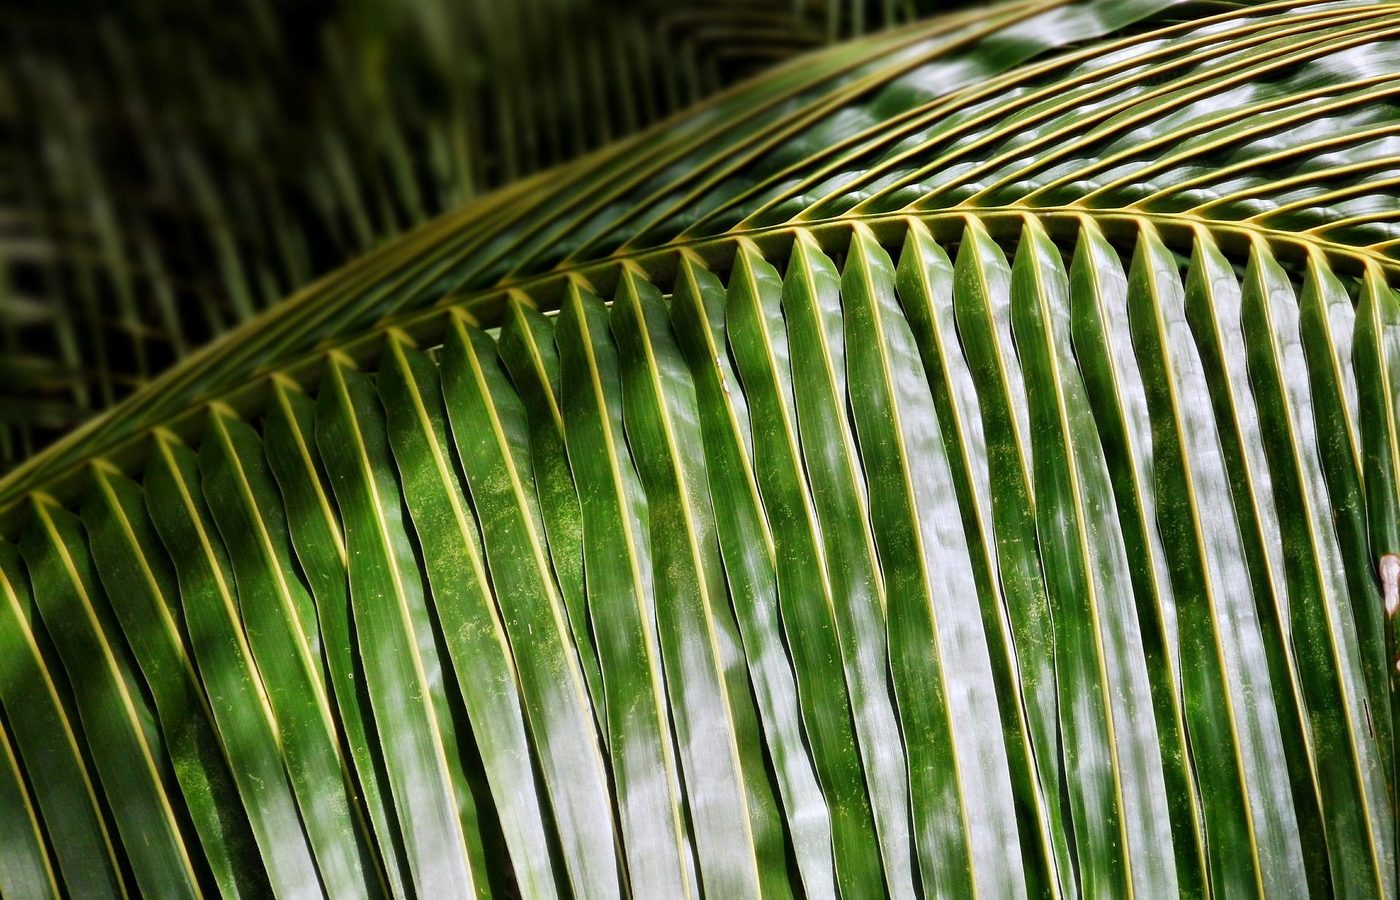
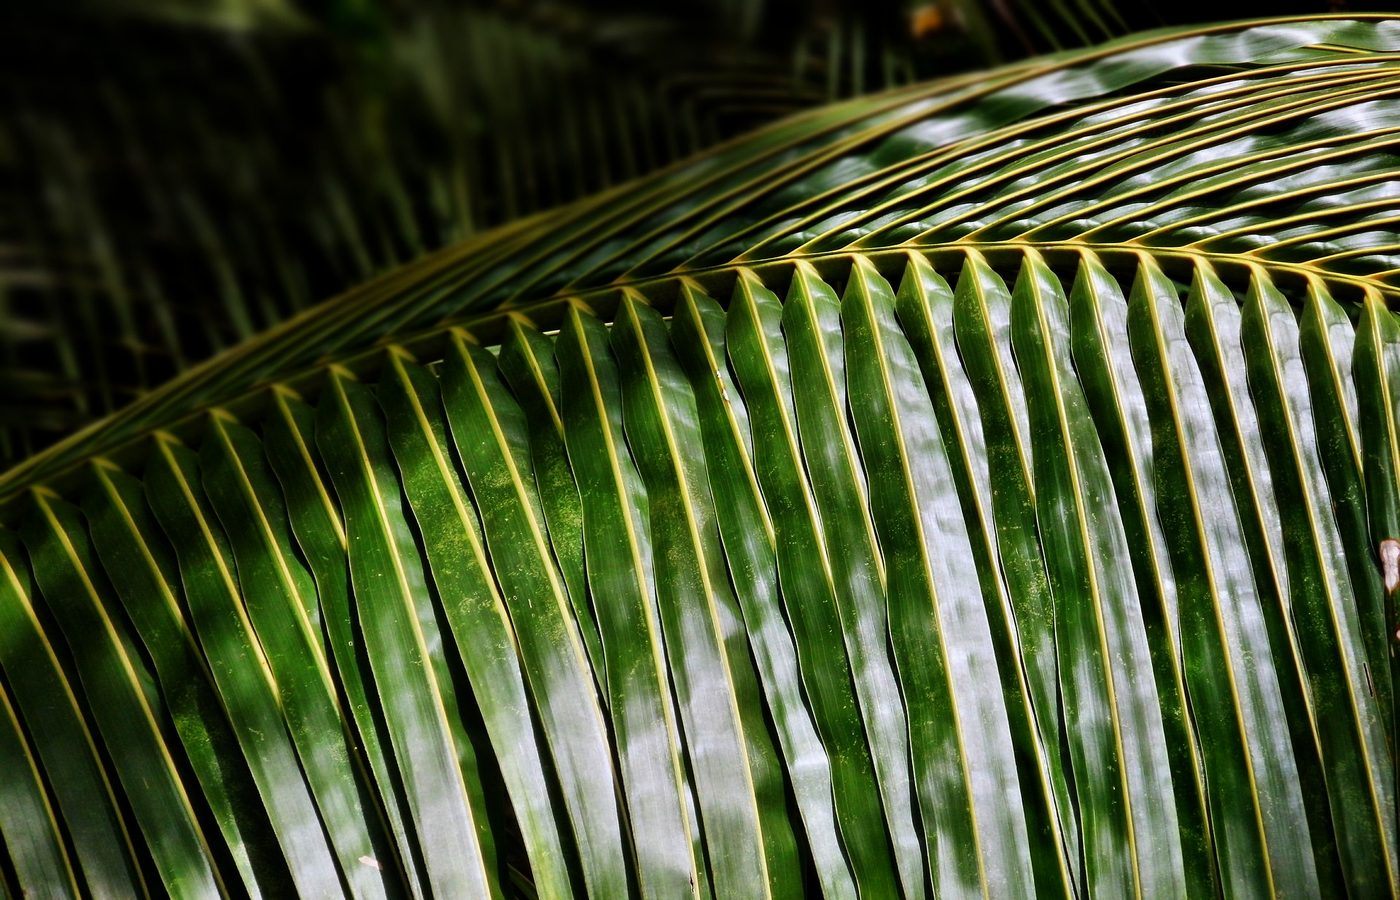
스톡 사진 5장 추가 배치 + 상단 띠 글씨 대비를 전부 기준 위로
주신 사진 5장을 images/stock/ 에 넣고 다섯 페이지 상단 띠에 깔았습니다.

  stemcell-bubbles.jpg  줄기세포   기포가 세포처럼 읽힙니다
  scalp-mint.jpg        두피케어   민트 잎
  worldtour-palm.jpg    월드투어   야자수
  quantum-fronds.jpg    퀀텀       잎의 결이 빛의 파동처럼 보입니다
  contact-desk.jpg      문의하기   창가 노트북

넣으면서 재어 보니, 이번 5곳뿐 아니라 먼저 넣은 띠들도 글씨 대비가
기준(4.5:1)에 못 미치고 있었습니다. lymph 3.11, reserve 3.57, about 3.65.
사진 밝기에 따라 띠가 환해져 흰 글씨가 묻히는 구조였습니다.

사진이 나오는 방식을 손봤습니다.

  opacity          .34 → .24
  filter brightness 1.05 → .82   밝은 사진이 와도 띠가 환해지지 않게
  가리개 시작점      60% → 72%    (모바일 70% → 80%)

그래도 남은 두 장은 원본이 밝아, 감마 곡선으로 눌러서 다시 넣었습니다.
stemcell-bubbles 178 → 95, px-lymph-palm 94 → 75.
반대로 어두웠던 worldtour-palm 43 → 74, quantum-fronds 35 → 74 는 올렸습니다.

           PC    모바일        PC    모바일
  about   6.86   3.65  →     6.76   4.76
  lymph   3.11   3.91  →     4.63   4.91
  reserve 3.57   3.52  →     4.89   4.52
  (새) stemcell 4.59 / 5.68, scalp 5.28 / 5.52, worldtour 5.43 / 5.61,
       quantum 5.68 / 5.93, contact 6.17 / 4.60

열 곳 전부 기준을 넘겼습니다. 측정은 요소 상자가 아니라 글자가 실제로
차지하는 줄 상자에서 가장 낮은 값을 뽑았습니다.

contact-desk.jpg 에는 사람이 뒷모습으로 나옵니다. 얼굴이 보이지 않고
문의하기 페이지라 진료·시술 페이지가 아니어서 넣었습니다. 화면 속 글씨도
확대해 확인했고 읽히는 상표는 없습니다.

출처는 아직 듣지 못해 파일 이름에 표시를 붙이지 않았습니다.
docs/이미지-출처.md 와 확인사항 22번에 '확인 필요'로 남겼습니다.

확인: 20페이지 x 3언어 + 모바일 390px 전부 통과, JS 오류 없음.
캐시 번호 56 → 57.

Claude-Session: https://claude.ai/code/session_01BvBKM3YPvvXSdaRb7U3tSz

diff --git a/css/style.css b/css/style.css
@@ -400,10 +400,11 @@ footer .fine a:hover{color:#fff}
 /* 상단 띠의 배경 사진 — 도형 무늬(.motif-bg)와 같은 자리, 같은 방식으로 사라집니다.
    사진은 무늬보다 정보가 많아 더 옅게 깔고, 초록 쪽으로 살짝 눌러 둡니다. */
 .page-hero .photo-bg{position:absolute;right:0;top:0;height:100%;width:min(58%,720px);
-  object-fit:cover;opacity:.34;pointer-events:none;z-index:0;
-  filter:saturate(.8) brightness(1.05);mix-blend-mode:luminosity;
-  -webkit-mask-image:linear-gradient(to right,transparent,#000 60%);
-          mask-image:linear-gradient(to right,transparent,#000 60%)}
+  object-fit:cover;opacity:.24;pointer-events:none;z-index:0;
+  /* brightness 를 1 아래로 둡니다. 밝은 사진이 오면 띠가 환해져서 흰 글씨가 묻힙니다. */
+  filter:saturate(.8) brightness(.82);mix-blend-mode:luminosity;
+  -webkit-mask-image:linear-gradient(to right,transparent,#000 72%);
+          mask-image:linear-gradient(to right,transparent,#000 72%)}
 
 /* 진료 페이지 상단 띠의 무늬 — 오른쪽에서 서서히 사라집니다 */
 .page-hero{position:relative;overflow:hidden}
@@ -419,9 +420,9 @@ footer .fine a:hover{color:#fff}
      막을 위아래 방향으로 바꿔 글씨 영역 전체를 고르게 덮습니다. */
   .hero .hero-photo{opacity:.18}
   .hero .hero-scrim{background:linear-gradient(180deg,rgba(8,38,21,.66) 0%,rgba(8,38,21,.62) 74%,rgba(8,38,21,.34) 100%)}
-  .page-hero .photo-bg{width:100%;opacity:.22;
-    -webkit-mask-image:linear-gradient(to bottom,transparent,#000 70%);
-            mask-image:linear-gradient(to bottom,transparent,#000 70%)}
+  .page-hero .photo-bg{width:100%;opacity:.16;
+    -webkit-mask-image:linear-gradient(to bottom,transparent,#000 80%);
+            mask-image:linear-gradient(to bottom,transparent,#000 80%)}
   .page-hero .motif-bg{width:100%;opacity:.20;
     -webkit-mask-image:linear-gradient(to bottom,transparent,#000 70%);
             mask-image:linear-gradient(to bottom,transparent,#000 70%)}

diff --git a/reserve.html b/reserve.html
@@ -15,8 +15,8 @@
 <meta name="twitter:card" content="summary_large_image"><link rel="preconnect" href="https://fonts.googleapis.com">
 <link href="https://fonts.googleapis.com/css2?family=Nanum+Myeongjo:wght@400;700;800&display=swap" rel="stylesheet">
 <script>document.documentElement.classList.add("js")</script>
-<link rel="stylesheet" href="css/style.css?v=56">
-<link rel="stylesheet" href="css/anim.css?v=56">
+<link rel="stylesheet" href="css/style.css?v=57">
+<link rel="stylesheet" href="css/anim.css?v=57">
 </head>
 <body data-i18n-title="page.reserve.h1">
 <div id="site-header"></div>
@@ -85,11 +85,11 @@
 </section>
 
 <div id="site-footer"></div>
-<script src="js/config.js?v=56"></script>
-<script src="js/form.js?v=56"></script>
-<script src="js/lang.js?v=56"></script>
-<script src="js/i18n.js?v=56"></script>
-<script src="js/main.js?v=56"></script>
-<script src="js/anim.js?v=56"></script>
+<script src="js/config.js?v=57"></script>
+<script src="js/form.js?v=57"></script>
+<script src="js/lang.js?v=57"></script>
+<script src="js/i18n.js?v=57"></script>
+<script src="js/main.js?v=57"></script>
+<script src="js/anim.js?v=57"></script>
 </body>
 </html>

diff --git a/contact.html b/contact.html
@@ -15,8 +15,8 @@
 <meta name="twitter:card" content="summary_large_image"><link rel="preconnect" href="https://fonts.googleapis.com">
 <link href="https://fonts.googleapis.com/css2?family=Nanum+Myeongjo:wght@400;700;800&display=swap" rel="stylesheet">
 <script>document.documentElement.classList.add("js")</script>
-<link rel="stylesheet" href="css/style.css?v=56">
-<link rel="stylesheet" href="css/anim.css?v=56">
+<link rel="stylesheet" href="css/style.css?v=57">
+<link rel="stylesheet" href="css/anim.css?v=57">
 </head>
 <body data-i18n-title="page.contact.h1">
 <div id="site-header"></div>
@@ -87,11 +87,11 @@
 </div>
 
 <div id="site-footer"></div>
-<script src="js/config.js?v=56"></script>
-<script src="js/form.js?v=56"></script>
-<script src="js/lang.js?v=56"></script>
-<script src="js/i18n.js?v=56"></script>
-<script src="js/main.js?v=56"></script>
-<script src="js/anim.js?v=56"></script>
+<script src="js/config.js?v=57"></script>
+<script src="js/form.js?v=57"></script>
+<script src="js/lang.js?v=57"></script>
+<script src="js/i18n.js?v=57"></script>
+<script src="js/main.js?v=57"></script>
+<script src="js/anim.js?v=57"></script>
 </body>
 </html>

diff --git a/worldtour.html b/worldtour.html
@@ -15,16 +15,16 @@
 <meta name="twitter:card" content="summary_large_image"><link rel="preconnect" href="https://fonts.googleapis.com">
 <link href="https://fonts.googleapis.com/css2?family=Nanum+Myeongjo:wght@400;700;800&display=swap" rel="stylesheet">
 <script>document.documentElement.classList.add("js")</script>
-<link rel="stylesheet" href="css/style.css?v=56">
-<link rel="stylesheet" href="css/anim.css?v=56">
+<link rel="stylesheet" href="css/style.css?v=57">
+<link rel="stylesheet" href="css/anim.css?v=57">
 </head>
 <body>
 <div id="site-header"></div>
 <main id="svc-page" data-svc="worldtour"></main>
 <div id="site-footer"></div>
-<script src="js/lang.js?v=56"></script>
-<script src="js/i18n.js?v=56"></script>
-<script src="js/main.js?v=56"></script>
-<script src="js/anim.js?v=56"></script>
+<script src="js/lang.js?v=57"></script>
+<script src="js/i18n.js?v=57"></script>
+<script src="js/main.js?v=57"></script>
+<script src="js/anim.js?v=57"></script>
 </body>
 </html>

diff --git a/esthetic.html b/esthetic.html
@@ -15,16 +15,16 @@
 <meta name="twitter:card" content="summary_large_image"><link rel="preconnect" href="https://fonts.googleapis.com">
 <link href="https://fonts.googleapis.com/css2?family=Nanum+Myeongjo:wght@400;700;800&display=swap" rel="stylesheet">
 <script>document.documentElement.classList.add("js")</script>
-<link rel="stylesheet" href="css/style.css?v=56">
-<link rel="stylesheet" href="css/anim.css?v=56">
+<link rel="stylesheet" href="css/style.css?v=57">
+<link rel="stylesheet" href="css/anim.css?v=57">
 </head>
 <body>
 <div id="site-header"></div>
 <main id="svc-page" data-svc="esthetic"></main>
 <div id="site-footer"></div>
-<script src="js/lang.js?v=56"></script>
-<script src="js/i18n.js?v=56"></script>
-<script src="js/main.js?v=56"></script>
-<script src="js/anim.js?v=56"></script>
+<script src="js/lang.js?v=57"></script>
+<script src="js/i18n.js?v=57"></script>
+<script src="js/main.js?v=57"></script>
+<script src="js/anim.js?v=57"></script>
 </body>
 </html>

diff --git a/stemcell.html b/stemcell.html
@@ -15,16 +15,16 @@
 <meta name="twitter:card" content="summary_large_image"><link rel="preconnect" href="https://fonts.googleapis.com">
 <link href="https://fonts.googleapis.com/css2?family=Nanum+Myeongjo:wght@400;700;800&display=swap" rel="stylesheet">
 <script>document.documentElement.classList.add("js")</script>
-<link rel="stylesheet" href="css/style.css?v=56">
-<link rel="stylesheet" href="css/anim.css?v=56">
+<link rel="stylesheet" href="css/style.css?v=57">
+<link rel="stylesheet" href="css/anim.css?v=57">
 </head>
 <body>
 <div id="site-header"></div>
 <main id="svc-page" data-svc="stemcell"></main>
 <div id="site-footer"></div>
-<script src="js/lang.js?v=56"></script>
-<script src="js/i18n.js?v=56"></script>
-<script src="js/main.js?v=56"></script>
-<script src="js/anim.js?v=56"></script>
+<script src="js/lang.js?v=57"></script>
+<script src="js/i18n.js?v=57"></script>
+<script src="js/main.js?v=57"></script>
+<script src="js/anim.js?v=57"></script>
 </body>
 </html>

diff --git a/plastic.html b/plastic.html
@@ -15,16 +15,16 @@
 <meta name="twitter:card" content="summary_large_image"><link rel="preconnect" href="https://fonts.googleapis.com">
 <link href="https://fonts.googleapis.com/css2?family=Nanum+Myeongjo:wght@400;700;800&display=swap" rel="stylesheet">
 <script>document.documentElement.classList.add("js")</script>
-<link rel="stylesheet" href="css/style.css?v=56">
-<link rel="stylesheet" href="css/anim.css?v=56">
+<link rel="stylesheet" href="css/style.css?v=57">
+<link rel="stylesheet" href="css/anim.css?v=57">
 </head>
 <body>
 <div id="site-header"></div>
 <main id="svc-page" data-svc="plastic"></main>
 <div id="site-footer"></div>
-<script src="js/lang.js?v=56"></script>
-<script src="js/i18n.js?v=56"></script>
-<script src="js/main.js?v=56"></script>
-<script src="js/anim.js?v=56"></script>
+<script src="js/lang.js?v=57"></script>
+<script src="js/i18n.js?v=57"></script>
+<script src="js/main.js?v=57"></script>
+<script src="js/anim.js?v=57"></script>
 </body>
 </html>

diff --git a/quantum.html b/quantum.html
@@ -15,16 +15,16 @@
 <meta name="twitter:card" content="summary_large_image"><link rel="preconnect" href="https://fonts.googleapis.com">
 <link href="https://fonts.googleapis.com/css2?family=Nanum+Myeongjo:wght@400;700;800&display=swap" rel="stylesheet">
 <script>document.documentElement.classList.add("js")</script>
-<link rel="stylesheet" href="css/style.css?v=56">
-<link rel="stylesheet" href="css/anim.css?v=56">
+<link rel="stylesheet" href="css/style.css?v=57">
+<link rel="stylesheet" href="css/anim.css?v=57">
 </head>
 <body>
 <div id="site-header"></div>
 <main id="svc-page" data-svc="quantum"></main>
 <div id="site-footer"></div>
-<script src="js/lang.js?v=56"></script>
-<script src="js/i18n.js?v=56"></script>
-<script src="js/main.js?v=56"></script>
-<script src="js/anim.js?v=56"></script>
+<script src="js/lang.js?v=57"></script>
+<script src="js/i18n.js?v=57"></script>
+<script src="js/main.js?v=57"></script>
+<script src="js/anim.js?v=57"></script>
 </body>
 </html>

diff --git a/toenail.html b/toenail.html
@@ -15,16 +15,16 @@
 <meta name="twitter:card" content="summary_large_image"><link rel="preconnect" href="https://fonts.googleapis.com">
 <link href="https://fonts.googleapis.com/css2?family=Nanum+Myeongjo:wght@400;700;800&display=swap" rel="stylesheet">
 <script>document.documentElement.classList.add("js")</script>
-<link rel="stylesheet" href="css/style.css?v=56">
-<link rel="stylesheet" href="css/anim.css?v=56">
+<link rel="stylesheet" href="css/style.css?v=57">
+<link rel="stylesheet" href="css/anim.css?v=57">
 </head>
 <body>
 <div id="site-header"></div>
 <main id="svc-page" data-svc="toenail"></main>
 <div id="site-footer"></div>
-<script src="js/lang.js?v=56"></script>
-<script src="js/i18n.js?v=56"></script>
-<script src="js/main.js?v=56"></script>
-<script src="js/anim.js?v=56"></script>
+<script src="js/lang.js?v=57"></script>
+<script src="js/i18n.js?v=57"></script>
+<script src="js/main.js?v=57"></script>
+<script src="js/anim.js?v=57"></script>
 </body>
 </html>

diff --git a/urology.html b/urology.html
@@ -15,16 +15,16 @@
 <meta name="twitter:card" content="summary_large_image"><link rel="preconnect" href="https://fonts.googleapis.com">
 <link href="https://fonts.googleapis.com/css2?family=Nanum+Myeongjo:wght@400;700;800&display=swap" rel="stylesheet">
 <script>document.documentElement.classList.add("js")</script>
-<link rel="stylesheet" href="css/style.css?v=56">
-<link rel="stylesheet" href="css/anim.css?v=56">
+<link rel="stylesheet" href="css/style.css?v=57">
+<link rel="stylesheet" href="css/anim.css?v=57">
 </head>
 <body>
 <div id="site-header"></div>
 <main id="svc-page" data-svc="urology"></main>
 <div id="site-footer"></div>
-<script src="js/lang.js?v=56"></script>
-<script src="js/i18n.js?v=56"></script>
-<script src="js/main.js?v=56"></script>
-<script src="js/anim.js?v=56"></script>
+<script src="js/lang.js?v=57"></script>
+<script src="js/i18n.js?v=57"></script>
+<script src="js/main.js?v=57"></script>
+<script src="js/anim.js?v=57"></script>
 </body>
 </html>

diff --git a/derma.html b/derma.html
@@ -15,16 +15,16 @@
 <meta name="twitter:card" content="summary_large_image"><link rel="preconnect" href="https://fonts.googleapis.com">
 <link href="https://fonts.googleapis.com/css2?family=Nanum+Myeongjo:wght@400;700;800&display=swap" rel="stylesheet">
 <script>document.documentElement.classList.add("js")</script>
-<link rel="stylesheet" href="css/style.css?v=56">
-<link rel="stylesheet" href="css/anim.css?v=56">
+<link rel="stylesheet" href="css/style.css?v=57">
+<link rel="stylesheet" href="css/anim.css?v=57">
 </head>
 <body>
 <div id="site-header"></div>
 <main id="svc-page" data-svc="derma"></main>
 <div id="site-footer"></div>
-<script src="js/lang.js?v=56"></script>
-<script src="js/i18n.js?v=56"></script>
-<script src="js/main.js?v=56"></script>
-<script src="js/anim.js?v=56"></script>
+<script src="js/lang.js?v=57"></script>
+<script src="js/i18n.js?v=57"></script>
+<script src="js/main.js?v=57"></script>
+<script src="js/anim.js?v=57"></script>
 </body>
 </html>

diff --git a/lymph.html b/lymph.html
@@ -15,16 +15,16 @@
 <meta name="twitter:card" content="summary_large_image"><link rel="preconnect" href="https://fonts.googleapis.com">
 <link href="https://fonts.googleapis.com/css2?family=Nanum+Myeongjo:wght@400;700;800&display=swap" rel="stylesheet">
 <script>document.documentElement.classList.add("js")</script>
-<link rel="stylesheet" href="css/style.css?v=56">
-<link rel="stylesheet" href="css/anim.css?v=56">
+<link rel="stylesheet" href="css/style.css?v=57">
+<link rel="stylesheet" href="css/anim.css?v=57">
 </head>
 <body>
 <div id="site-header"></div>
 <main id="svc-page" data-svc="lymph"></main>
 <div id="site-footer"></div>
-<script src="js/lang.js?v=56"></script>
-<script src="js/i18n.js?v=56"></script>
-<script src="js/main.js?v=56"></script>
-<script src="js/anim.js?v=56"></script>
+<script src="js/lang.js?v=57"></script>
+<script src="js/i18n.js?v=57"></script>
+<script src="js/main.js?v=57"></script>
+<script src="js/anim.js?v=57"></script>
 </body>
 </html>
